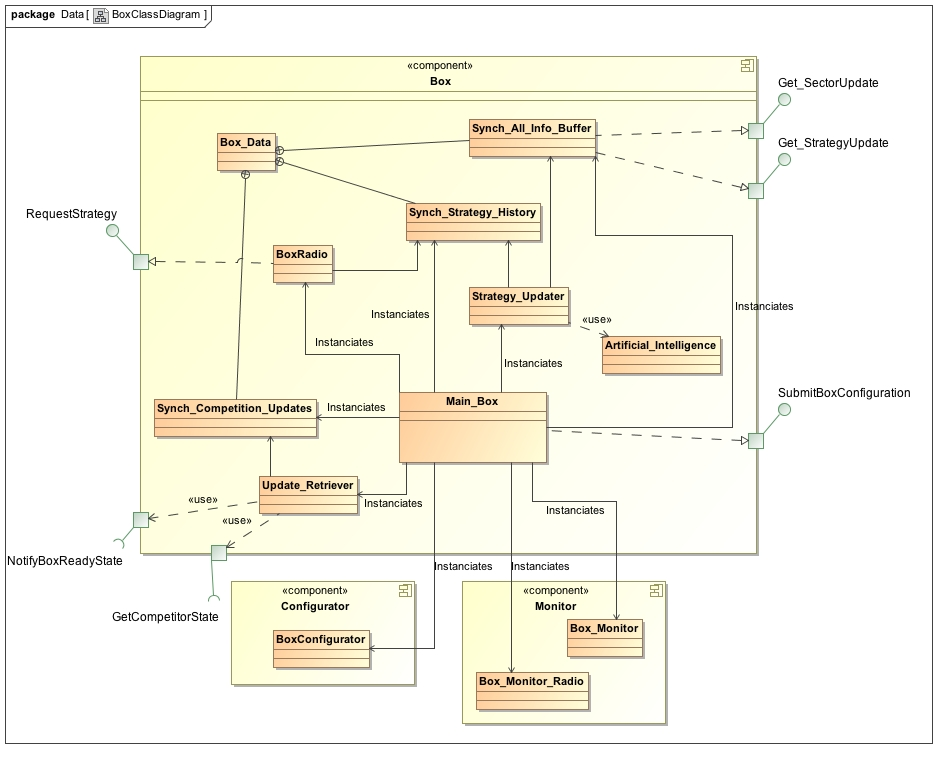
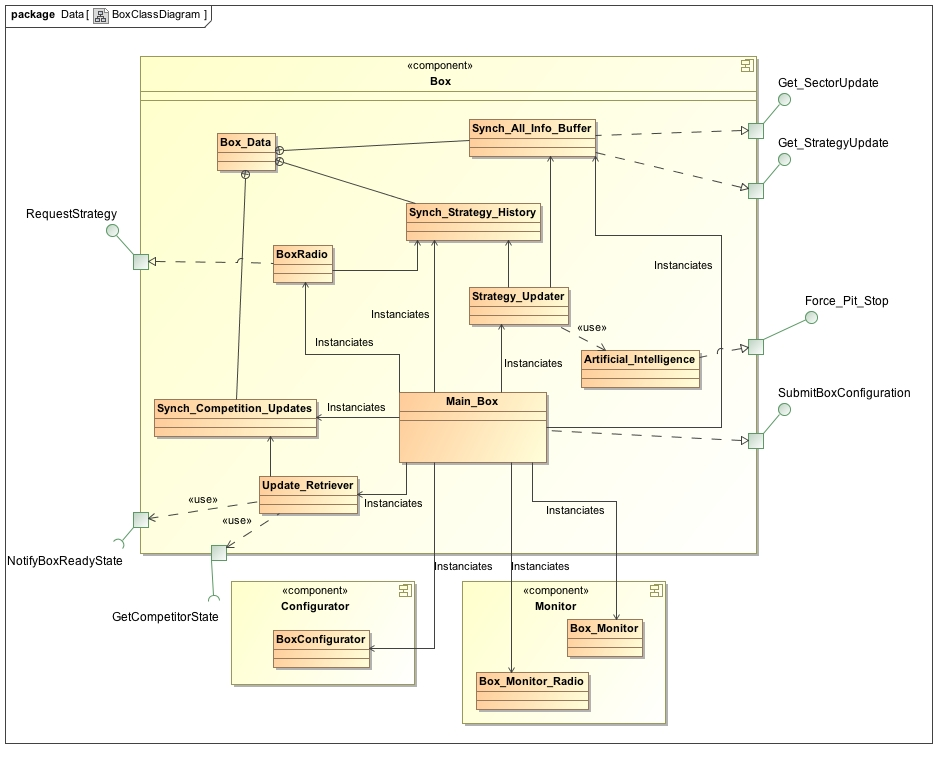
Sistemati reference in soluzione problematiche e cambiato squalifica in ritiro

Changed region(s): [[0.6125, 0.3945, 0.9493, 0.5158], [0.7043, 0.3338, 0.7656, 0.3641]]

diff --git a/documents/Relazione/soluzione_problematiche.tex b/documents/Relazione/soluzione_problematiche.tex
@@ -57,7 +57,7 @@ coda il tempo di arrivo in base ai tempi accumulati per l'attraversamento dei
 tratti precedenti. Quindi si può dire che ogni
 concorrente aggiorni un proprio orologio relativo all'andamento della sua corsa.
 Inoltre ogni concorre segna
-un tempo ottimistico di arrivo sui checkpoint che (salvo squalifica) attraverserà.
+un tempo ottimistico di arrivo sui checkpoint che (salvo ritiro) attraverserà.
 Tale istante sarà di sicuro maggiore dell'istante segnato
 nel \textbf{Checkpoint} in cui il concorrente effettivamente è arrivato. Questo
 permette ad ogni concorrente di sapere, quindi, non solo
@@ -91,7 +91,7 @@ Quando un concorrente vuole iniziare a percorrere una traiettoria, di conseguenz
 che il suo tempo di arrivo sia maggiore almeno di uno dei tempi di liberazione segnati
 nella lista. Solo in questo caso potrà essere certo che la traiettoria può ospitare auto.
 Se tutte le traiettorie di un tratto sono sovraffollate, il concorrente dovrà
-uscire di pista per evitare una collisione e venire squalificato.\\
+uscire di pista per evitare una collisione e si dovrà quindi ritirare.\\
 Questo garantisce il realismo fisico
 concorrente-concorrenti descritto nella sezione \ref{analisi_realismo_fisico}.
 I tempi segnati nelle code invece mettono in pratica, in parte, il concetto di
@@ -171,7 +171,7 @@ corrisponderà all'istante di uscita della macchina entrata più di recente (ovv
 di arrivo del concorrente (significa che quell'istante è già passato e non è più utile ai fini della valutazione dell'affollamento
 della traiettoria);
 \end{itemize}
-\item Altrimenti l'utente deve uscire dal circuito per evitare collisioni, venendo così squalificato.
+\item Altrimenti l'utente deve uscire dal circuito per evitare collisioni, dovendo così ritirarsi.
 \end{itemize}
 \item{\textbf{Attraversamento tratto:}}\\
 \emph{Premessa}: un concorrente arrivato effettivamente su una coda ma non primo, si mette in attesa. 
@@ -428,7 +428,7 @@ non tengono in considerazione fattori che nella realtà possono incidere in modo
 negativo;
 \item Fool: nella realtà normalmente non si arriva a tanto, ma per fini di test
 è stato inserito anche un tipo di strategia che sovrastima le possibilità del
-concorrente, portandolo a squalifica quasi certa.
+concorrente, portandolo a ritiro quasi certa.
 \end{enumerate}
 \subsubsection{Interazione con il concorrente}
 L'entità box interagisce costantemente con il concorrente, anche se non in modo
@@ -471,7 +471,8 @@ dovuto al sistema distribuito, gestendo questi fault e garantendo la corretta e
 continua esecuzione della simulazione.
 Inoltre la consapevolezza di errori di rete porta alla presenza di componenti di
 "non determinismo" comunque controllato e gestito, come richiesto nel paragrafo
-\ref{componenti_non_determinismo}.
+\ref{componenti_non_determinismo}.\\
+Ulteriori dettagli relativi alla distribuzione possono essere reperiti in appendice alla seguente sezione \label{distribuzione}.
 \subsection{Gestione delle statistiche di gara}
 \label{statistiche}
 Come analizzato nella sezione \ref{analisi_istantanee}, per poter reperire
@@ -602,6 +603,9 @@ prima riguarda l'osservazione della gara e la velocità di simulazione;
 seconda  riguarda interventi sulla gara da parte di un utente esterno,
 che completa le funzionalità di "non determinismo" permesse nei primi capitoli.
 \end{itemize}
+L'interazione avviene da postazioni remote. Ovvero l'utente avrà TV e Box dislocati in nodi separati 
+rispetto alla competizione. Maggiori dettagli a riguardo possono essere trovati alla sezione in appendice
+\ref{comp_distribuite}.
 \subsubsection{Osservazione gara ( lato box, lato tv )}
 Per quanto riguarda l'osservazione della gara questa avviene in due modalità
 differenti. La prima è la visione della gara nel suo insieme, con la

diff --git a/documents/Relazione/soluzione_proposta.tex b/documents/Relazione/soluzione_proposta.tex
@@ -302,7 +302,9 @@ in dettaglio in seguito, questa componente \`{e} in realt\`{a} costituita da due
 \end{figure}
 \end{center}
 La componente \emph{Screen} comunica con il \emph{Monitor} per ottenere informazioni utili da esporre graficamente all'utente. Tali
-informazioni possono riguardare la competizione in senso globale, oppure essere legate ai singoli concorrenti.
+informazioni possono riguardare la competizione in senso globale, oppure essere legate ai singoli concorrenti.\\
+Inoltre dagli \emph{Screen} è possibile intervenire sulla gara, accelerando o decelerando la velocità di simulazione e forzando un 
+concorrente a rientrare ai box.
 \subsubsection{Competitor-Box}
 \begin{center}
 \begin{figure}[h!]
@@ -905,11 +907,13 @@ a meno che per qualche motivo un thread relativo ad un \textbf{Competitor\_Task}
 non si interrompa inaspettatamente, bloccando il processo di aggiornamento delle statistiche e quindi la produzione di snapshot di gara.
 %"Distribuzione"
 \subsection{Distribuzione}
+\ref{distribuzione}
 Nella seguente sezione verranno spiegati dettagli fondamentali riguardanti la distribuzione nel sistema.
 	%. Elenco risorse distribuite
 	%. Interazione risorse distribuite
 	%. Misure di fault tolerance
 \subsubsection{Componenti distribuite}%Con motivazione
+\ref{comp_distribuite}
 Si \`{e} deciso di permettere la distribuzione delle seguenti componenti:
 \begin{itemize}
 \item\textbf{\emph{Box}}:\\
